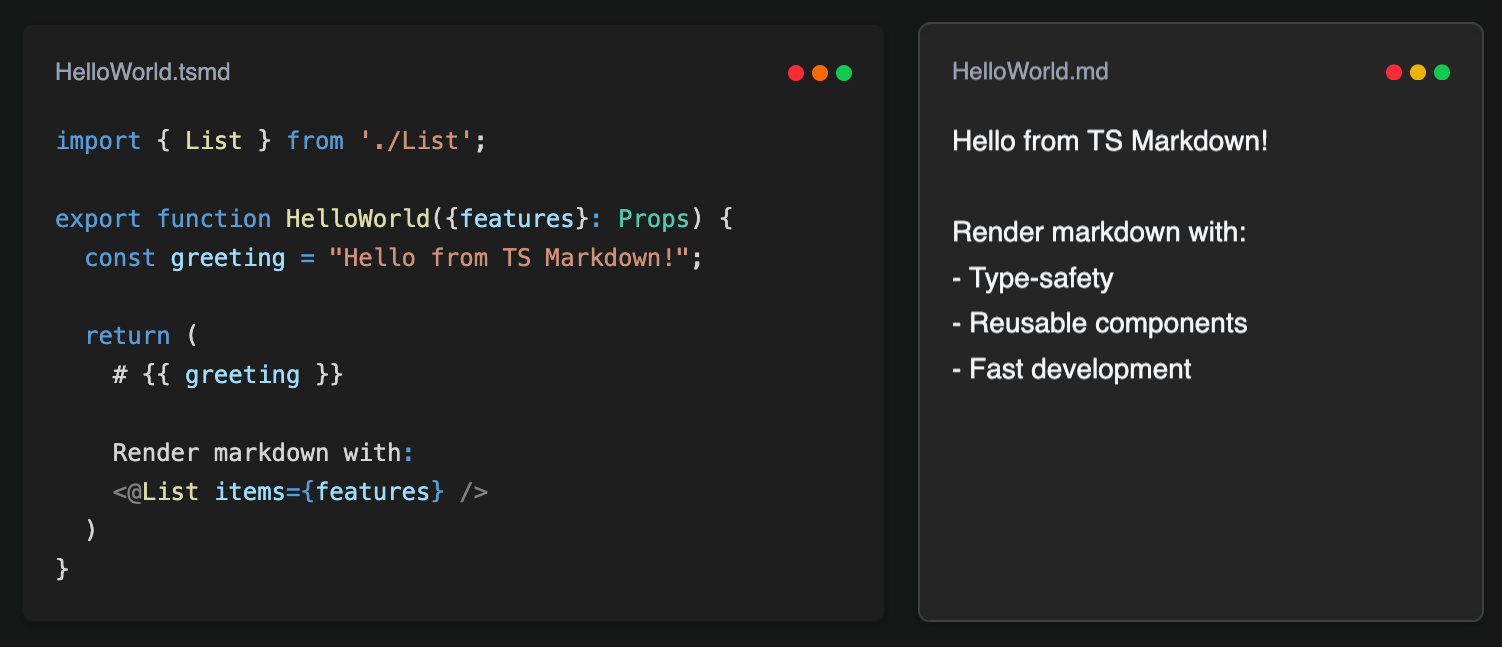
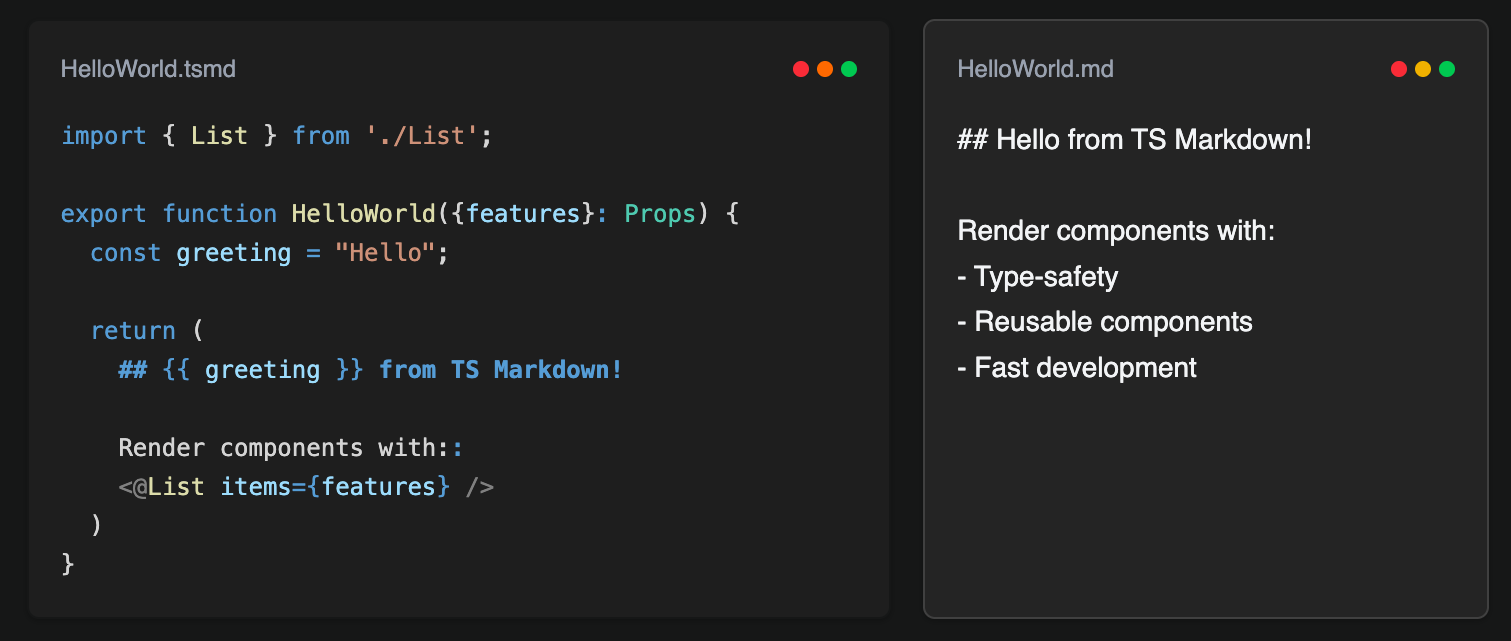
update-colon

diff --git a/src/components/LandingPage.tsx b/src/components/LandingPage.tsx
@@ -105,7 +105,7 @@ export function LandingPage() {
                                             <span className="line font-bold text-[#569CD6]">    ## </span><span className="text-[#569CD6]">{`{{`}</span><span className="text-[#9CDCFE]"> greeting</span><span className="text-[#569CD6]"> {`}} `}</span><span className="font-bold text-[#569CD6]">from TS Markdown!</span>
                                             <br />
                                             <br />
-                                            <span className="line"><span className="text-[#d4d4d4]">    Render components with:</span><span className="text-[#569CD6]">:</span></span>
+                                            <span className="line"><span className="text-[#d4d4d4]">    Render components with:</span></span>
                                             <br />
                                             <span className="line"><span className="text-[#808080]">    &lt;@</span><span className="text-[#DCDCAA]">List</span>
                                                 <span className="text-[#9CDCFE]"> items</span><span className="text-[#569CD6]">=</span><span className="text-[#569CD6]">{`{`}</span><span className="text-[#9CDCFE]">features</span><span className="text-[#569CD6]">{`}`}</span>
@@ -136,7 +136,7 @@ export function LandingPage() {
                                             <span className="line text-[#333333]">    # </span><span className="text-[#333333]">{`{{`}</span><span className="text-[#001080]"> greeting</span><span className="text-[#333333]"> {`}} `}</span>
                                             <br />
                                             <br />
-                                            <span className="line"><span className="text-[#333333]">    Render components with:</span><span className="text-[#0000ff]">:</span></span>
+                                            <span className="line"><span className="text-[#333333]">    Render components with:</span></span>
                                             <br />
                                             <span className="line"><span className="text-[#800000]">    &lt;@</span><span className="text-[#267f99]">List</span>
                                                 <span className="text-[#001080]"> items</span><span className="text-[#0000ff]">=</span><span className="text-[#333333]">{`{`}</span><span className="text-[#001080]">features</span><span className="text-[#333333]">{`}`}</span>